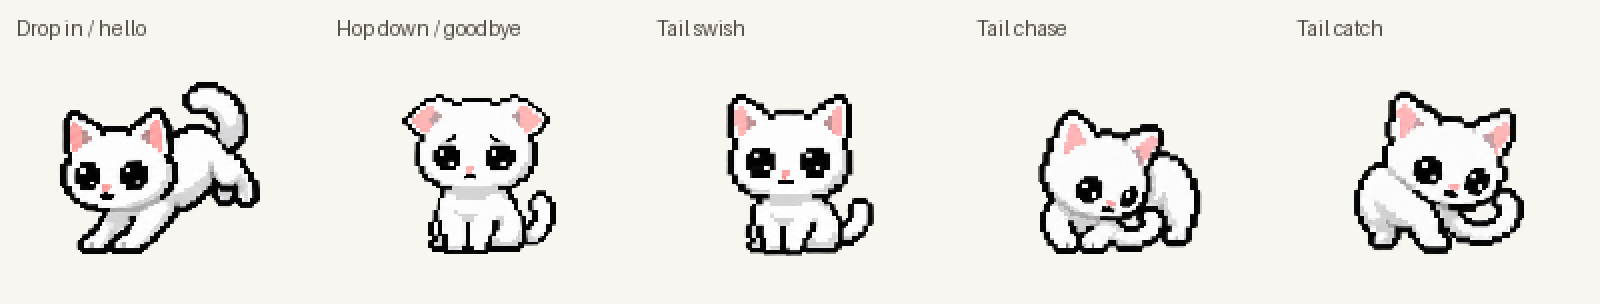
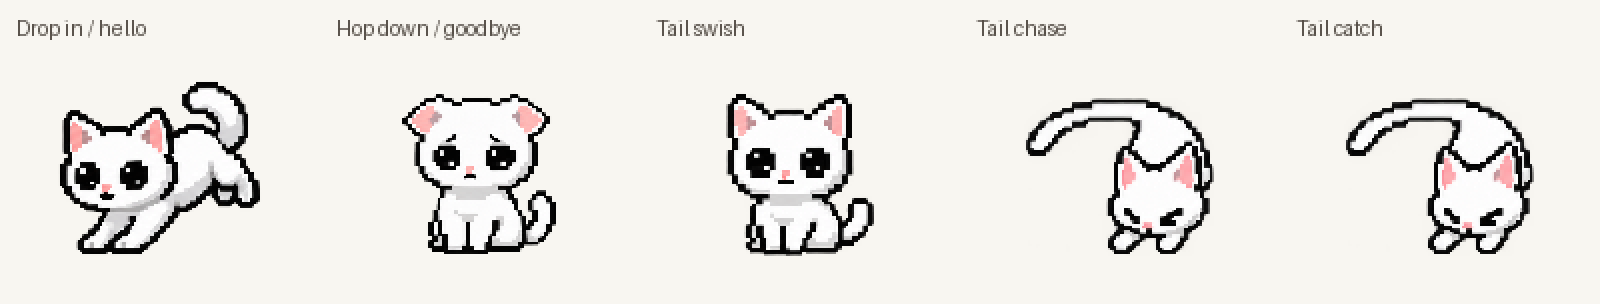
Match tail chasing to the attached running reference and cadence

Changed region(s): [[0.625, 0.2961, 0.7812, 0.8586], [0.8438, 0.2961, 0.9688, 0.8289]]

diff --git a/animations.py b/animations.py
@@ -56,10 +56,10 @@ CLIPS = {
     "tail": Clip("tailswish", 0, (450, 220, 220, 350, 220, 220, 280, 900), tuple(range(8))),
     "ears": Clip("idle", 2, (700, 250, 350, 900)),
     "sniff": Clip("idle", 3, (450, 350, 450, 850)),
-    "tail_chase": Clip("tailplay", 0, (350, 350) + (160,) * 16 + (250, 600),
-                       (8, 9) + tuple(range(8)) * 2 + (14, 15)),
-    "tail_catch": Clip("tailplay", 0, (350, 250) + (140,) * 24 + (160, 180, 300, 220, 200, 400),
-                       (8, 9) + tuple(range(8)) * 3 + (10, 11, 12, 13, 14, 15)),
+    "tail_chase": Clip("tailplay", 0, (300, 200) + (50,) * 22 + (180, 500),
+                       (11, 12) + tuple(range(11)) * 2 + (12, 15)),
+    "tail_catch": Clip("tailplay", 0, (300, 200) + (50,) * 33 + (100, 120, 300, 120, 150, 400),
+                       (11, 12) + tuple(range(11)) * 3 + (12, 13, 14, 13, 12, 15)),
     "arrive": Clip("arrival", 0, (200, 200, 300, 120, 180, 160, 220, 520), tuple(range(8))),
     "depart": Clip("lifecycle", 2, (650, 350, 200, 150, 200, 200, 200, 200), tuple(range(8))),
     "happy": Clip("pets", 0, (450, 600, 650, 900)),
@@ -110,7 +110,7 @@ class SpriteAtlas:
         for bank, version, rows in (("idle", 3, 4), ("pets", 3, 4), ("activity", 3, 4),
                                     ("movement", 3, 4), ("transitions", 1, 4), ("affection", 1, 4),
                                     ("petting-a", 1, 3), ("petting-b", 1, 3),
-                                    ("tailplay", 3, 4), ("lifecycle", 2, 4), ("tailswish", 1, 2),
+                                    ("tailplay", 4, 4), ("lifecycle", 2, 4), ("tailswish", 1, 2),
                                     ("arrival", 1, 2), ("farewell", 1, 1)):
             filename = f"neko-{bank}-v{version}.png"
             image = QImage(str(Path(path) / filename))
@@ -131,9 +131,13 @@ class SpriteAtlas:
                         # Drawn baselines can cross a nominal row; isolate the center silhouette with padding.
                         margin = region.height() // 5
                         region = region.adjusted(0, -margin, 0, margin).intersected(image.rect())
+                    if bank == "tailplay":
+                        margin = (right - left) // 5
+                        region = region.adjusted(-margin, 0, margin, 0).intersected(image.rect())
                     cell = image.copy(region)
                     if bank in ("arrival", "tailplay"):
-                        cell = cell.scaledToWidth(128, Qt.FastTransformation)
+                        cell = cell.scaledToWidth(round(128 * region.width() / (right - left)),
+                                                  Qt.FastTransformation)
                     else:
                         cell = cell.scaled(128, 128, Qt.KeepAspectRatio, Qt.FastTransformation)
                     bounds = sprite_bounds(cell)
@@ -185,7 +189,7 @@ class SpriteAtlas:
             self.frames[key] = frame
         # The shared seated drawing prevents a different face popping in at rest.
         idle = self.frames["idle", 0, 0]
-        for key in (("arrival", 1, 3), ("tailplay", 2, 0), ("tailplay", 3, 3),
+        for key in (("arrival", 1, 3), ("tailplay", 2, 3), ("tailplay", 3, 3),
                     ("tailswish", 0, 0), ("tailswish", 1, 3)):
             self.frames[key] = idle
         self.frames["lifecycle", 2, 0] = self.frames["farewell", 0, 0]

diff --git a/tools/preview_animations.py b/tools/preview_animations.py
@@ -50,7 +50,8 @@ def displayed(atlas, name, elapsed):
     if name in {item[0] for item in IDLES} and elapsed >= slot:
         name, elapsed = "idle", elapsed - slot
     if name not in ("arrive", "depart"):
-        elapsed = int(elapsed * 10) / 10
+        fps = 20 if name in ("tail_chase", "tail_catch") else 10
+        elapsed = int(elapsed * fps) / fps
     return pixels(atlas.frame(name, elapsed))
 
 
@@ -122,8 +123,9 @@ def flight_sheet(atlas, destination):
 def catalog(atlas, entries, stem, columns=4, scale=1, seconds=8):
     width, height = columns * 160, ((len(entries) + columns - 1) // columns) * 152
     frames = []
-    # GIF uses centiseconds; 30/30/40ms yields exactly 30 frames per second.
-    durations = [30, 30, 40] * (seconds * 10)
+    tail_only = all(name in ("tail_chase", "tail_catch") for name, _ in entries)
+    # Tail-only playback preserves the reference's exact 50ms footfalls.
+    durations = [50] * (seconds * 20) if tail_only else [30, 30, 40] * (seconds * 10)
     elapsed_ms = 0
     for duration in durations:
         canvas = Image.new("RGB", (width, height), BACKGROUND)
@@ -141,7 +143,7 @@ def catalog(atlas, entries, stem, columns=4, scale=1, seconds=8):
     frames[0].save(stem.with_suffix(".gif"), save_all=True, append_images=frames[1:],
                    duration=durations, loop=0, disposal=2)
     frames[18].save(stem.with_suffix(".png"))
-    assert len(frames) == seconds * 30
+    assert len(frames) == seconds * (20 if tail_only else 30)
 
 
 def cursor_preview(atlas, destination):
@@ -179,4 +181,5 @@ if __name__ == "__main__":
     lifecycle_scene(atlas, folder / "neko-lifecycle-scene.gif")
     catalog(atlas, REWORK, folder / "neko-tail-life-native", columns=5, seconds=6)
     catalog(atlas, REWORK, folder / "neko-tail-life-preview", columns=5, scale=2, seconds=6)
+    catalog(atlas, IDLES[-2:], folder / "neko-tail-reference-preview", columns=2, scale=2, seconds=6)
     print("Rebuilt idle, activity and animation-rework previews from SpriteAtlas.")

diff --git a/test_animations.py b/test_animations.py
@@ -120,11 +120,12 @@ class AnimationTests(unittest.TestCase):
     def test_tail_chase_has_two_turns_and_catch_has_three_before_its_pounce(self):
         for name, turns in (("tail_chase", 2), ("tail_catch", 3)):
             clip = CLIPS[name]
-            cycle = tuple(range(8))
-            self.assertEqual(clip.order[2:2 + turns * 8], cycle * turns, name)
+            cycle = tuple(range(11))
+            self.assertEqual(clip.order[2:2 + turns * 11], cycle * turns, name)
+            self.assertEqual(clip.durations[2:2 + turns * 11], (50,) * (turns * 11), name)
             self.assertFalse(clip.loop)
             self.assertLess(sum(clip.durations), 6000)
-        self.assertIn(12, CLIPS["tail_catch"].order[26:])
+        self.assertIn(14, CLIPS["tail_catch"].order[35:])
 
     def test_new_source_poses_fit_without_clipping_their_silhouettes(self):
         atlas = SpriteAtlas(Path(__file__).parent / "assets")

diff --git a/test_main.py b/test_main.py
@@ -225,6 +225,15 @@ class DesktopTests(unittest.TestCase):
                 self.assertEqual(positions, [origin, origin])
                 self.assertNotEqual(frames[0], frames[1], clip)
 
+    def test_tail_run_uses_the_reference_cadence_without_speeding_up_walking(self):
+        for state in (NekoState.TAIL_CHASE, NekoState.TAIL_CATCH):
+            self.neko.companion.state = state
+            self.neko.refresh_asset()
+            self.assertEqual(self.neko.animation_timer.interval(), 50)
+        self.neko.companion.state = NekoState.FOLLOWING
+        self.neko.refresh_asset()
+        self.assertEqual(self.neko.animation_timer.interval(), 100)
+
     def test_speech_does_not_change_sleep_or_geometry(self):
         original = self.neko.geometry()
         self.assertTrue(self.neko.say("comfy."))

diff --git a/main.py b/main.py
@@ -583,7 +583,9 @@ class NekoWidget(QWidget):
     def sync_animation(self):
         active = self.isVisible() and not self.is_manually_hidden and not self.closing
         if active and self.motion:
-            self.animation_timer.start(33 if self.current_clip in ("arrive", "depart") else 100)
+            interval = (33 if self.current_clip in ("arrive", "depart") else
+                        50 if self.current_clip in ("tail_chase", "tail_catch") else 100)
+            self.animation_timer.start(interval)
         else:
             self.animation_timer.stop()
         for name, movie in self.movies.items():

diff --git a/test_packaging.py b/test_packaging.py
@@ -25,7 +25,8 @@ class PackagingTests(unittest.TestCase):
         self.assertNotIn("assets/neko-petting-v1.png", names)
         self.assertIn("assets/neko-petting-a-v1.png", names)
         self.assertIn("assets/neko-petting-b-v1.png", names)
-        self.assertIn("assets/neko-tailplay-v3.png", names)
+        self.assertIn("assets/neko-tailplay-v4.png", names)
+        self.assertNotIn("assets/neko-tailplay-v3.png", names)
         self.assertIn("assets/neko-arrival-v1.png", names)
         self.assertIn("assets/neko-farewell-v1.png", names)
         self.assertNotIn("assets/neko-tailplay-v2.png", names)

diff --git a/docs/playful-motion-prompts.md b/docs/playful-motion-prompts.md
@@ -1,5 +1,41 @@
 # Playfulness revision: exact ImageGen prompts
 
+
+## Direct attached GIF correction
+
+The attached `dm4uz3-sakamoto.gif` has eleven frames, each 50ms. All eleven were extracted into a contact sheet as a motion reference; no source pixels enter the runtime art. Built-in ImageGen generated `assets/neko-tailplay-v4.png` from that contact sheet and the existing idle character sheet, with transparent background. This supersedes the earlier tucked-tail cycle.
+
+```text
+Use case: stylized-concept. Create a production transparent PIXEL ART sprite sheet for existing WHITE kitten desktop pet. Image1 is CHARACTER IDENTITY ONLY: white fur, charcoal pixel outline, gray shading, pink ears/nose, constant large round head, small normal kitten ears and compact feline proportions. Image2 is the EXACT MOTION STORYBOARD: 11 consecutive frames of a real tail-chasing animation. Adapt those 11 poses faithfully to the white kitten. Do not copy black fur, red scarf, long pointy ears, room/floor, labels or background. True transparent alpha.
+
+EXACT 4 equal columns x4 equal rows, 16 separate complete sprites, row-major reading order. Constant physical head/body scale, generous clear padding inside EVERY cell. Each sprite fully contained, no cell-edge clipping. Crisp stepped pixel edges. No labels/shadows/ground/effects.
+
+CRITICAL MOTION: TOP ELEVEN drawings reproduce the FIRST ELEVEN consecutive reference frames, in order. The kitten is RUNNING IN A TIGHT CIRCLE after her own tail. Body LOW and stretched HORIZONTALLY, curved like a broad C, hips leaning into the turn. Head leads the body around the circle with eyes SQUEEZED CLOSED in playful determination. Forelegs paddle/scramble, hindlegs push under rump, alternating paw contacts with small bounds. Tail is LONG and TRAILS OUTSIDE the turning body in a wide curved arc, tip escaping away from the nose. Keep clear negative space between tail and torso. Do not put tail under chin/in mouth or wrap it around chest. Do not animate an upright seated mannequin turning on a pedestal. Whole torso changes direction naturally; no face on back of head. The reference pose at each angle is more important than making cute front portraits.
+
+Frame mapping, match the corresponding numbered reference cell:
+1 head/front paws toward LOWER RIGHT, curved body extends UPPER LEFT, trailing tail curls wide around LOWER LEFT. One foreleg reaching.
+2 head points DOWN, hips upper right; long tail sweeps across upper left, tip far left. Other foreleg reaching.
+3 same down/front orientation with next RUNNING FOOT CONTACT (not an identical drawing).
+4 head LEFT and a little down, hips right, body bent strongly toward left; long tail sweeps outside at top.
+5 head LEFT, body extends right and lower, near foreleg reaching LEFT, tail curves from right rump upward ending high near center.
+6 same left orientation next running stride, forepaw replaces old position, different hindpaw contact.
+7 head points UP and LEFT, back of head visible, body lower right, tail long on outer RIGHT of turn.
+8 head UP and away, back of skull only, body below/left, long tail sweeps RIGHT outside.
+9 head UP and RIGHT, near cheek barely visible, body below/left, tail sweeps lower right.
+10 head RIGHT and slightly down, body left/lower, long tail curls outside along BOTTOM.
+11 almost matches frame1: head LOWER RIGHT, body UPPER LEFT, tail trailing wide around lower-left, opposite foot contact so 11->1 is a seamless RUNNING cycle.
+
+LAST FIVE drawings:
+12 neutral front-facing seated white kitten, EXACT identity image, one curled tail and two planted forepaws.
+13 drops to LOW CURVED crouch noticing tail, eyes eager, rear hips slightly raised, all four legs coherent, one long tail behind.
+14 low short pounce to own trailing tail, both forepaws reach together replacing planted paws, hindlegs tuck behind. Four legs TOTAL.
+15 belly low, both forepaws hold own single tailtip on floor, head low, closed happy eyes, hindfeet hidden tucked. No third foreleg, no raised human arms.
+16 normal neutral seated EXACTLY same as frame12.
+
+ANATOMY: one head/torso, FOUR anatomical legs TOTAL, only TWO forelegs, one continuous tail ATTACHED AT RUMP. Far legs occluded where appropriate. Every moving paw REPLACES its original location. No extra limbs, duplicate feet, detached parts, second tails or changing skull size. Broad low running silhouettes like the reference, not old upright turning poses. Reference motion silhouette and footfall are the core request.
+```
+
+
 Character reference: `assets/neko-idle-v3.png`. Pose references: the user's two attached images and [tail-chasing GIF](https://media.tenor.com/Gxa1JfN3334AAAAM/dm4uz3-sakamoto.gif), opened through the supplied Google share link. Pose references supply motion only; the existing white kitten supplies identity. All calls used built-in ImageGen with transparent background. Corrections reference the corresponding generated sheet. All four farewell candidates are retained in the source sheet; only the first two are used.
 
 ## playful-tail

diff --git a/docs/tail-lifecycle-notes.md b/docs/tail-lifecycle-notes.md
@@ -4,13 +4,13 @@
 
 [Monitor-scene arrival and farewell](neko-lifecycle-scene.gif) · [Native-size playback](neko-tail-life-native.gif) · [All used source poses](neko-tail-life-source-frames.png)
 
-The latest revision follows the user's crouched tail-chasing reference. One eight-view stepping cycle repeats twice for the chase and three times before the catch/pounce. The whole kitten turns while her nose follows a single attached tail. Preparation, a low pounce, two-paw catch, escape and sitting recovery are separate drawings. Chase lasts 4.11 seconds; catch lasts 5.42 seconds, both inside the six-second idle slot. The lazy swish and twelve pet reactions remain as previously calibrated.
+The attached GIF correction replaces the earlier slow tucked-tail cycle. Its eleven 50ms poses now guide low, stretched running with squeezed-shut eyes, alternating scrambling paws and a long tail trailing outside the turn. One 550ms turn repeats twice for chase and three times before the catch/pounce. Chase lasts 2.28 seconds; catch lasts 3.34 seconds, both inside the six-second idle slot. The lazy swish and twelve pet reactions remain as previously calibrated. [Tail-only playback](neko-tail-reference-preview.gif) preserves exact 50ms frame timing.
 
 Arrival lasts 1.9 seconds. Her actual 112px desktop window moves from just above the target monitor to the saved landing position over 700ms, with accelerating travel. Complete airborne/forepaw-contact poses lead into compression, a cheerful rebound and the canonical idle drawing. Ink is clipped to the target monitor's top edge, including when another monitor sits above it. The monitor-scene preview uses the production trajectory and atlas; the pose catalog alone does not show desktop window travel.
 
 Departure lasts 2.15 seconds. A sad look with lowered ears appears immediately for 650ms; a second downcast pose holds 350ms. The retained crouch follows for 200ms, then the previously accepted hop drawings and upward/downward arc. There is no new dialogue. Only the first two farewell candidates are imported.
 
-The atlas has 150 entries. neko-tailplay-v3.png, neko-arrival-v1.png and neko-farewell-v1.png provide the new art. neko-lifecycle-v2.png remains for its accepted departure poses; its old arrival rows are not loaded. Tailplay v2 is removed from the bundle. Shared idle endpoints prevent a face change at rest.
+The atlas has 150 entries. neko-tailplay-v4.png, neko-arrival-v1.png and neko-farewell-v1.png provide the new art. neko-lifecycle-v2.png remains for its accepted departure poses; its old arrival rows are not loaded. Retired tailplay sheets are removed from the bundle. Shared idle endpoints prevent a face change at rest.
 
 Generated poses slightly cross nominal row boundaries. Arrival and tail cells use padded sampling regions, connected-silhouette bounds and constant width-based source sampling, so paws are retained without changing scale between rows. Whole sequences share a scale and ground anchor; frames are never individually fitted to their bounding boxes. No anatomy pixels were painted or patched programmatically.
 
@@ -20,4 +20,4 @@ Position saves always use the landing target during flight. Hiding, motion-off, 
 
 See [exact prompts](playful-motion-prompts.md), [verification](playful-motion-validation.md) and the earlier [rebuild record](animation-rebuild-validation.md).
 
-Rebuild previews with .venv\Scripts\python.exe tools\preview_animations.py (optional Pillow). These use production atlas/timing, 30 samples/second for lifecycle and the app's 10 FPS for ordinary actions. GIF loops are documentation replay; startup/departure run once.
+Rebuild previews with .venv\Scripts\python.exe tools\preview_animations.py (optional Pillow). These use production atlas/timing, 30 samples/second for lifecycle, 20 FPS for tail running and 10 FPS for other actions. GIF loops are documentation replay; startup/departure run once.

diff --git a/README.md b/README.md
@@ -28,15 +28,16 @@ Soft sounds are optional and off until you enable them.
   sleep and back to sitting. Most gestures have 5–6 seconds on screen: one gentle
   motion followed by a relaxed rest, without repeated head-bobbing or stretching.
   Tail swishes make one lazy sweep and rest; kneading and paw taps use slower continuous cycles.
-  Normal rendering runs at 10 FPS; arrival/departure briefly use 30 FPS for smooth travel,
+  Normal rendering runs at 10 FPS; tail running uses 20 FPS to match the reference's quick steps.
+  Arrival/departure briefly use 30 FPS for smooth travel,
   keeping walking speed unchanged.
   Every frame has a 112 × 112 transparent canvas. Idle is about 82 pixels tall;
   all twelve pet reactions use idle's 62 × 50-pixel head reference and starting
   head position. Each reaction retains the same calibration throughout its poses,
   so crouching and lying down do not cause the old whole-body fitting size jump.
   Walking, loafing and sleep preserve their natural posture and proportions.
-- **A little tail trouble.** She crouches and follows her tail through two compact
-  stepping turns. The catch game takes three turns, then a small pounce and a
+- **A little tail trouble.** She runs low with closed eyes and a trailing tail through two quick
+  turns, following the supplied GIF's eleven 50ms poses. The catch game takes three turns, then a small pounce and a
   two-paw catch before the tip slips away. Each finishes in her normal sitting drawing.
   These do not change the twelve pet reactions.
 - **Hello and goodbye.** Starting the app plays a drop-in, landing crouch and
@@ -189,7 +190,7 @@ character scale through the change in posture. `assets/neko-affection-v1.png`
 supplies the retained chin scritches, blep and ear rubs.
 `assets/neko-petting-a-v1.png` and `assets/neko-petting-b-v1.png` each contain
 three rows of four drawings, for five new reactions and the remade paw offer.
-`assets/neko-tailplay-v3.png` supplies the eight-view turning cycle and eight preparation/payoff poses.
+`assets/neko-tailplay-v4.png` supplies the eleven-pose running cycle and five preparation/payoff poses.
 `assets/neko-arrival-v1.png` supplies the graceful landing; the first two drawings in
 `assets/neko-farewell-v1.png` introduce sadness before the retained hop in
 `assets/neko-lifecycle-v2.png`. `assets/neko-tailswish-v1.png` supplies the lazy swish.

diff --git a/docs/playful-motion-validation.md b/docs/playful-motion-validation.md
@@ -1,5 +1,21 @@
 # Playfulness revision verification — 2026-10-21
 
+## Direct attached GIF correction (current)
+
+The user rejected the earlier tucked-tail movement and attached the actual reference GIF. It contains eleven frames at 50ms each, a 550ms turn. Every frame was inspected in sequence. The v4 tail sheet now follows its low curved running body, closed determined eyes, alternating paw contacts and long outward trailing tail. The cycle has eleven distinct runtime drawings, repeated twice for chase and three times for catch. Intro/recovery use five other source poses; total atlas entries remain 150.
+
+Chase lasts 2.28s; catch lasts 3.34s, then rests for the remainder of the six-second idle slot. Tail playback alone uses a 50ms timer (20 FPS); walking and other ordinary gestures retain 100ms. The tail-only documentation GIF uses exact 50ms samples, so the reference cadence is visible without resampling to 30 FPS.
+
+All used source silhouettes were reviewed for extra paws, tail continuity, complete extremities and the full turn. Review caught a tail tip crossing its nominal column: horizontal padding plus connected-silhouette extraction now retains it, with a common sampling scale across all cells. Arrival, goodbye, swish, petting and palm artwork are unchanged. The v3 tail sheet is removed from the bundle; v4 replaces it. Source art was produced using built-in ImageGen; scripts only extract/render runtime frames.
+
+Native Windows checks passed for the new tail timer versus walking speed, all-state rendering, and uncut silhouette borders. An isolated in-memory mutation reverting the tail timer to 100ms made the new regression fail as expected; production files were untouched.
+
+Current checks: 123 discovered tests, 121 passed and two packaging checks skipped during the source run; those two packaging checks subsequently passed against the rebuilt executable. Three selected native Windows tests passed. PyInstaller clean build and diff whitespace validation passed. No new physical multi-monitor run was performed.
+
+![Corrected tail playback](neko-tail-reference-preview.gif)
+
+## Earlier revision verification
+
 Branch: `codex/animation-rebuild`. This revision supersedes the original one-turn/seated-catch and neutral-goodbye storyboards.
 
 ## Visual review

diff --git a/tasks/plan.md b/tasks/plan.md
@@ -5,7 +5,7 @@
 The user supplied a crouched tail-chasing GIF and a graceful cat landing reference.
 The new acceptance criteria supersede the earlier seated tail trap and neutral departure:
 
-1. Tail chase uses two full compact turns; tail catch uses three, followed by a crouched pounce/catch and recovery. A shared eight-view stepping cycle must have one attached tail and four anatomical legs; no repeated sitting interruption between turns.
+1. Tail chase uses two full compact turns; tail catch uses three, followed by a crouched pounce/catch and recovery. After the direct GIF correction, use its eleven 50ms running poses: low stretched body, closed eyes, alternating scrambling paws and long tail trailing outside the turn. One attached tail and four anatomical legs; no sitting interruption between turns.
 2. Arrival actually travels from above the target monitor's top edge to the saved position. New airborne/contact/compression/rebound poses add kitten playfulness. Position saves, hide, reduced motion, fullscreen and quit must never persist an intermediate airborne position.
 3. Departure immediately shows a small sad expression and lowered ears before crouching. Preserve the existing accepted hop-down drawings and arc. No guilt text is added.
 4. Inspect source drawings, actual-size runtime playback, complete turns, and a monitor-scene drop preview. Keep the new pet-size calibration and palm behavior intact. Run regression/native rendering checks, rebuild and inspect the executable.

diff --git a/tasks/todo.md b/tasks/todo.md
@@ -1,5 +1,12 @@
 # Animation rebuild checklist
 
+## Direct GIF correction
+
+- [x] Inspect all eleven GIF frames and their 50ms durations.
+- [x] Replace the tucked-tail turning cycle with low running poses and an outward trailing tail.
+- [x] Match the reference cadence at 20 FPS and preserve two/three turns.
+- [x] Review runtime poses, regenerate previews, run checks and rebuild the executable. Source suite: 121 passed; packaged checks: 2 passed; native checks: 3 passed.
+
 ## Playfulness revision
 
 - [x] Inspect the supplied reference GIF and both attached pose images; record revised scope.
